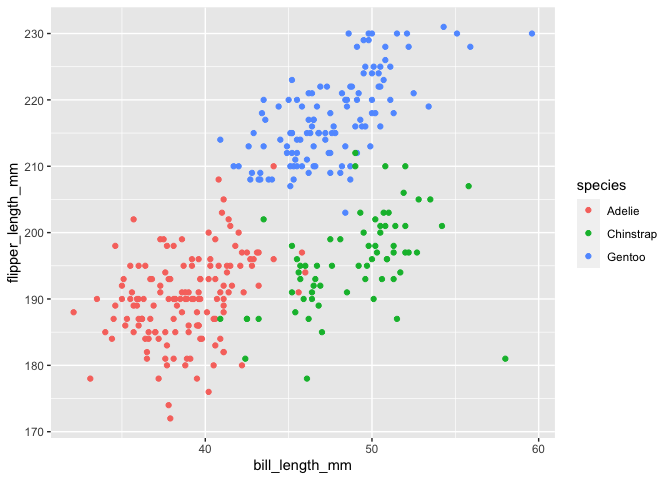
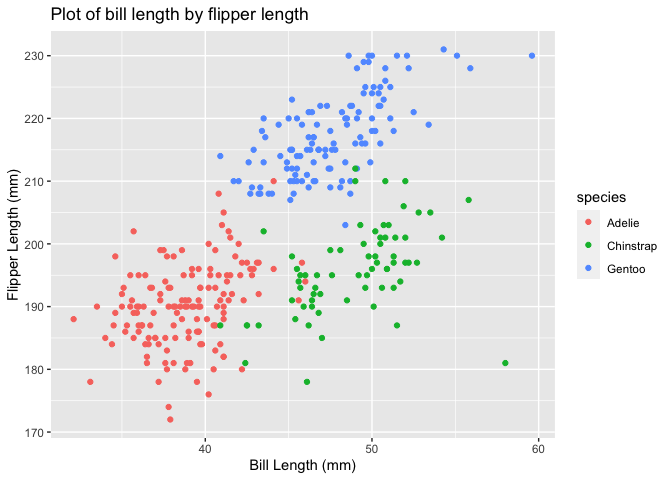
final hw1 product

diff --git a/p8105_hw1_np2619.md b/p8105_hw1_np2619.md
@@ -38,8 +38,8 @@ str(prob1_df)
 ```
 
     ## tibble [10 × 4] (S3: tbl_df/tbl/data.frame)
-    ##  $ samp    : num [1:10] 0.303 -0.114 1.724 0.111 2.509 ...
-    ##  $ vec_log : logi [1:10] TRUE FALSE TRUE TRUE TRUE FALSE ...
+    ##  $ samp    : num [1:10] -0.541 -0.695 2.041 2.647 -0.377 ...
+    ##  $ vec_log : logi [1:10] FALSE FALSE TRUE TRUE FALSE TRUE ...
     ##  $ vec_char: chr [1:10] "I" "do" "not" "know" ...
     ##  $ vec_fac : Factor w/ 3 levels "orange","purple",..: 1 3 2 2 3 1 2 2 3 1
 
@@ -56,7 +56,7 @@ and logical vector (sample \>0). In the logical vector, it appears TRUE
 (To be clear, I wrote the characters before I watched the live video, I
 think I did it correctly after watchinf the video\!)
 
-### Problem 1, continued
+#### Problem 1, continued
 
 ``` r
 prob1_df$vec_log <- as.numeric(as.factor(prob1_df$vec_log))
@@ -75,7 +75,7 @@ Using the as.numeric function, vec\_log and vec\_fac convert to numeric.
 Using the same function, vec\_char was not converted, but introduced
 NAs.
 
-### Problem 1, continued again.
+#### Problem 1, continued again.
 
 Converting and multiplying.
 
@@ -107,31 +107,19 @@ by way of factor, “TRUE” = 2 and “FALSE” = 1.
 
 ## Problem 2
 
+This data set has 344 observations and 8 vectors. There are 3 factor
+variables (species, island, sex), 5 numeric vectors (bill length, bill
+depth, flipper length, body mass, year). The mean length of penguin
+flippers is 200.966967.
+
 ``` r
-data("penguins", package = "palmerpenguins")
-
-#drop_na_(pull(penguins, flipper_length_mm))
-
-#completerecords <- na.omit(penguins)
-#drop_na(flipper_length_mm)
-#mean(penguins, flipper_length_mm)
-
-
-#plot_penguins = tibble(
-  #x = bill_length_mm,
- # y = flipper_length_mm
- # )
-#this doesn't work yet ://
-
-#ggplot(plot_penguins, aes(x = x, y = y, color = species)) + geom_point()
-
-#mean_flip = mean(pull(penguins, flipper_length_mm))
-#This data set has `r nrow(penguins)` observations and `r ncol(penguins)` vectors.  There are 4 factor variables (species, island, sex, year), 4 numeric vectors (bill length, bill depth, flipper length, body mass). The mean length of penguin flippers is `r mean_flip`.
+ggplot(omit_pen, aes(x = bill_length_mm, y = flipper_length_mm, color = species)) + geom_point() + xlab("Bill Length (mm)") + ylab("Flipper Length (mm)") + ggtitle("Plot of bill length by flipper length")
 ```
 
-## Including Plots
+![](p8105_hw1_np2619_files/figure-gfm/prob2cont-1.png)<!-- -->
 
-You can also embed plots, for example:
+``` r
+ggsave(filename = "penguin.png")
+```
 
-Note that the `echo = FALSE` parameter was added to the code chunk to
-prevent printing of the R code that generated the plot.
+    ## Saving 7 x 5 in image

diff --git a/README.md b/README.md
@@ -1,1 +1,3 @@
 # p8105_hw1_np2619
+
+This is my work for P8105 homework 1.
